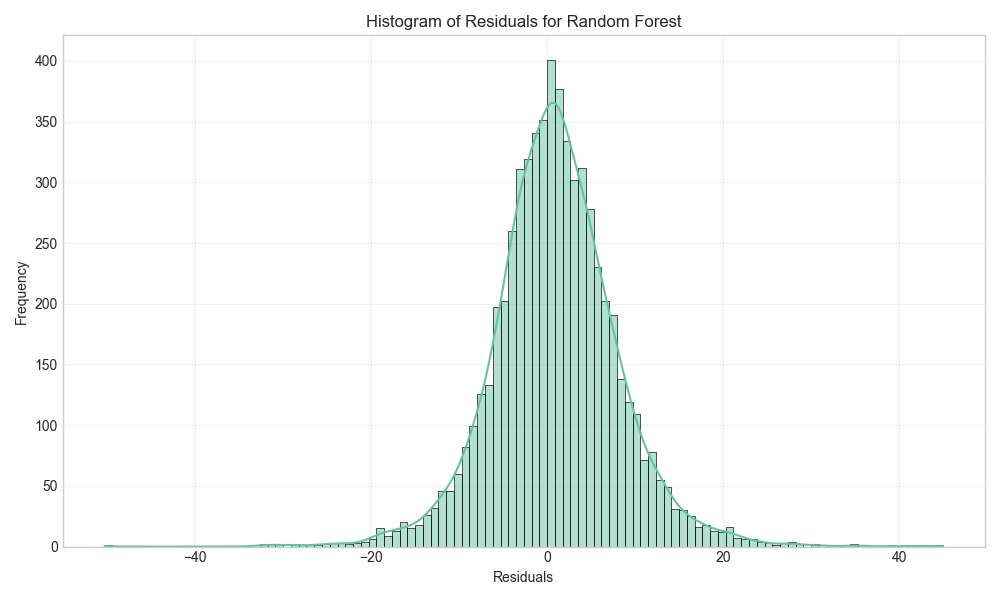
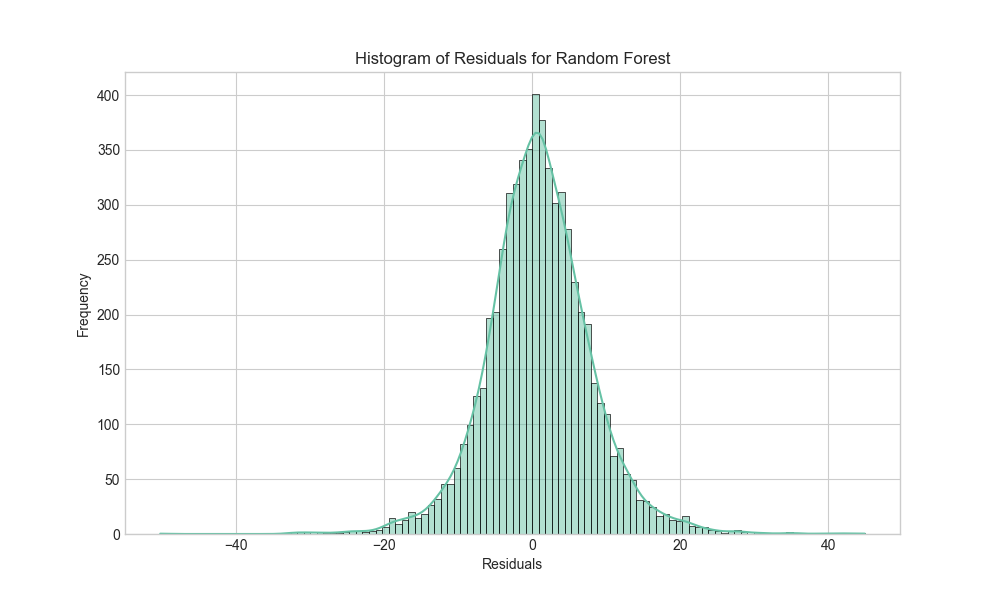
Consolidates data visualization code and improves plotting
Streamlines exploratory data visualization by:
- Consolidating multiple separate plot functions into a single comprehensive visualization grid
- Improving plot layouts and styling for better readability
- Adding cumulative enrollment tracking to provide better trend visibility
- Standardizing plot formatting and axis labels

Updates residual plotting functions to use more consistent styling and removes redundant filename handling

diff --git a/hiv_enugu/plotting/exploratory.py b/hiv_enugu/plotting/exploratory.py
@@ -1,117 +1,48 @@
 import matplotlib.pyplot as plt
 import matplotlib.dates as mdates
 import seaborn as sns
-import numpy as np
 import pandas as pd
 from .utils import plot_manager
-from pandas import DataFrame
 
 
 @plot_manager
-def plot_yearly_enrollment_trends(yearly_stats: DataFrame, **kwargs):
-    """Plots the yearly trends for mean enrollments and zero enrollment days."""
-    fig, ax1 = plt.subplots(figsize=(12, 6))
+def plot_exploratory_visualizations(df, **kwargs):
+    """Generate and save a grid of exploratory data visualizations."""
+    fig, axes = plt.subplots(2, 2, figsize=(20, 16))
+    fig.suptitle("Exploratory Data Analysis of HIV Cases in Enugu State", fontsize=20)
 
-    # Bar chart for mean enrollments
-    ax1.bar(
-        yearly_stats.index, yearly_stats["Mean"], color="skyblue", label="Mean Daily Enrollment"
-    )
-    ax1.set_xlabel("Year")
-    ax1.set_ylabel("Mean Daily Enrollment", color="skyblue")
-    ax1.tick_params(axis="y", labelcolor="skyblue")
+    # Plot 1: Time Series of New Enrollments
+    ax = axes[0, 0]
+    ax.plot(df['date'], df['enrollment'], label='Newly Enrolled', color='teal')
+    ax.set_title('Time Series of New HIV Enrollments')
+    ax.set_xlabel('Date')
+    ax.set_ylabel('Number of People')
+    ax.legend()
 
-    # Line chart for standard deviation
-    ax2 = ax1.twinx()
-    ax2.plot(
-        yearly_stats.index,
-        yearly_stats["Std"],
-        color="coral",
-        marker="o",
-        label="Std. Dev. of Daily Enrollment",
-    )
-    ax2.set_ylabel("Standard Deviation", color="coral")
-    ax2.tick_params(axis="y", labelcolor="coral")
+    # Plot 2: Yearly Distribution of New Enrollments
+    ax = axes[0, 1]
+    sns.boxplot(x='year', y='enrollment', data=df, ax=ax)
+    ax.set_title('Yearly Distribution of New Enrollments')
+    ax.set_xlabel('Year')
+    ax.set_ylabel('Newly Enrolled')
+    ax.tick_params(axis='x', rotation=45)
 
-    plt.title("Yearly Enrollment Trends")
-    fig.tight_layout()
-    return fig
+    # Plot 3: Monthly Trend of New Enrollments
+    ax = axes[1, 0]
+    monthly_trend = df.groupby('month')['enrollment'].mean()
+    monthly_trend.plot(kind='bar', ax=ax, color='skyblue')
+    ax.set_title('Average Monthly Trend of New Enrollments')
+    ax.set_xlabel('Month')
+    ax.set_ylabel('Average Number of People')
+    ax.tick_params(axis='x', rotation=0)
 
+    # Plot 4: Cumulative Enrollments Over Time
+    ax = axes[1, 1]
+    ax.plot(df['date'], df['cumulative'], label='Cumulative', color='purple')
+    ax.set_title('Cumulative HIV Cases Over Time')
+    ax.set_xlabel('Date')
+    ax.set_ylabel('Total Number of People')
+    ax.legend()
 
-@plot_manager
-def plot_yearly_distribution(df: DataFrame, **kwargs):
-    """Plots the distribution of enrollments by year."""
-    fig, ax = plt.subplots(figsize=(15, 8))
-    sns.boxplot(data=df, x="Year", y="enrollment", ax=ax)
-    plt.title("Enrollment Distribution by Year")
-    plt.xticks(rotation=45)
-    plt.tight_layout()
-    return fig
-
-
-@plot_manager
-def plot_monthly_enrollment_trends(monthly_stats: DataFrame, **kwargs):
-    """Plots the average daily enrollments by month."""
-    month_order = [
-        "January",
-        "February",
-        "March",
-        "April",
-        "May",
-        "June",
-        "July",
-        "August",
-        "September",
-        "October",
-        "November",
-        "December",
-    ]
-    monthly_stats.index = pd.CategoricalIndex(
-        monthly_stats.index, categories=month_order, ordered=True
-    )
-    monthly_stats = monthly_stats.sort_index()
-
-    fig, ax = plt.subplots(figsize=(12, 6))
-    ax.bar(monthly_stats.index, monthly_stats["mean"])
-    plt.title("Average Enrollments by Month")
-    plt.xlabel("Month")
-    plt.ylabel("Mean Daily Enrollments")
-    plt.xticks(rotation=45)
-    plt.tight_layout()
-    return fig
-
-
-@plot_manager
-def plot_enrollment_boxplot(df: DataFrame, **kwargs):
-    """Plots a box plot of daily enrollments."""
-    fig, ax = plt.subplots(figsize=(8, 6))
-    sns.boxplot(y=df["enrollment"], ax=ax)
-    plt.title("Box Plot of Daily Enrollments")
-    plt.ylabel("Number of Enrollments")
-    plt.tight_layout()
-    return fig
-
-
-@plot_manager
-def plot_enrollment_timeseries(df: DataFrame, **kwargs):
-    """Plots the time series of daily enrollments."""
-    fig, ax = plt.subplots(figsize=(15, 5))
-    ax.plot(df["date"], df["enrollment"])
-    plt.title("Time Series of Daily Enrollments")
-    plt.xlabel("Date")
-    plt.ylabel("Number of Enrollments")
-    plt.xticks(rotation=45)
-    plt.tight_layout()
-    return fig
-
-
-@plot_manager
-def plot_cleaned_timeseries(df: DataFrame, **kwargs):
-    """Plots the time series of cleaned daily enrollments."""
-    fig, ax = plt.subplots(figsize=(15, 5))
-    ax.plot(df["date"], df["enrollment_cleaned"])
-    plt.title("Time Series of Cleaned Daily Enrollments")
-    plt.xlabel("Date")
-    plt.ylabel("Number of Enrollments")
-    plt.xticks(rotation=45)
-    plt.tight_layout()
+    plt.tight_layout(rect=(0, 0, 1, 0.96))
     return fig

diff --git a/hiv_enugu/data_processing.py b/hiv_enugu/data_processing.py
@@ -1,14 +1,7 @@
 import pandas as pd
 import numpy as np
 import os
-from plotting.exploratory import (
-    plot_yearly_enrollment_trends,
-    plot_yearly_distribution,
-    plot_monthly_enrollment_trends,
-    plot_enrollment_boxplot,
-    plot_enrollment_timeseries,
-    plot_cleaned_timeseries,
-)
+from hiv_enugu.plotting.exploratory import plot_exploratory_visualizations
 from hiv_enugu.config import FIGURES_DIR, PROCESSED_DATA_DIR, RAW_DATA_DIR
 from loguru import logger
 from pathlib import Path
@@ -66,12 +59,6 @@ def analyze_and_visualize_trends(df: DataFrame):
     logger.info("\nMonthly Statistics:")
     logger.info(monthly_stats)
 
-    # Generate plots
-    plot_yearly_enrollment_trends(yearly_stats, filename="yearly_trends.png")
-    plot_yearly_distribution(df, filename="yearly_distributions.png")
-    plot_monthly_enrollment_trends(monthly_stats, filename="monthly_trends.png")
-    logger.info("\nTrend visualizations saved.")
-
 
 def analyze_outliers(df: DataFrame):
     """Identifies and analyzes outliers in the enrollment data."""
@@ -88,11 +75,6 @@ def analyze_outliers(df: DataFrame):
     if not outliers.empty:
         logger.info("Top 5 outliers:")
         logger.info(outliers.nlargest(5, "enrollment"))
-
-    # Generate plots
-    plot_enrollment_boxplot(df, filename="enrollments_boxplot.png")
-    plot_enrollment_timeseries(df, filename="enrollments_timeseries.png")
-    logger.info("\nOutlier visualizations saved.")
 
 
 def finalize_and_save(df: DataFrame, output_path: Path):
@@ -114,21 +96,23 @@ def finalize_and_save(df: DataFrame, output_path: Path):
     df.to_csv(output_path, index=False)
     logger.info(f"\nAnalysis complete. Cleaned data saved to {output_path}")
 
-    # Plot cleaned data
-    plot_cleaned_timeseries(df, filename="enrollments_cleaned_timeseries.png")
-    logger.info("Cleaned data visualization saved.")
-
 
 def main():
-    """Main function to run the full data analysis pipeline."""
-    # Ensure figures directory exists
-    os.makedirs(FIGURES_DIR, exist_ok=True)
-
-    df_complete = load_and_clean_data(RAW_DATA_DIR / "data.xlsx")
-    if df_complete is not None:
-        analyze_and_visualize_trends(df_complete)
-        analyze_outliers(df_complete)
-        finalize_and_save(df_complete, PROCESSED_DATA_DIR / "cleaned_enrollments.csv")
+    """Main function to run data processing and generate initial plots."""
+    logger.info("Starting data processing...")
+    raw_df = load_and_clean_data(RAW_DATA_DIR / "data.xlsx")
+    if raw_df is not None:
+        raw_df['enrollment'] = raw_df['enrollment'].fillna(0)
+        raw_df['cumulative'] = raw_df['enrollment'].cumsum()
+        raw_df['year'] = raw_df['date'].dt.year
+        raw_df['month'] = raw_df['date'].dt.month
+        analyze_and_visualize_trends(raw_df)
+        analyze_outliers(raw_df)
+        finalize_and_save(raw_df, PROCESSED_DATA_DIR / "cleaned_enrollments.csv")
+        plot_exploratory_visualizations(
+            raw_df, filename="exploratory_data_analysis.png"
+        )
+        logger.info("Exploratory visualizations saved to reports/figures/")
 
 
 if __name__ == "__main__":

diff --git a/hiv_enugu/plotting/diagnostics.py b/hiv_enugu/plotting/diagnostics.py
@@ -4,33 +4,25 @@ from .utils import plot_manager
 
 
 @plot_manager
-def plot_residuals(y_true, y_pred, model_name, filename_suffix="", **kwargs):
+def plot_residuals(y_true, y_pred, model_name, **kwargs):
     """Plot residuals vs. predicted values."""
     residuals = y_true - y_pred
-    fig = plt.figure(figsize=(10, 6))
-    plt.scatter(y_pred, residuals, alpha=0.5)
-    plt.axhline(y=0, color="r", linestyle="--")
-    plt.xlabel(f"Predicted Values ({model_name})")
-    plt.ylabel("Residuals")
-    plt.title(f"Residual Plot for {model_name}")
-    plt.grid(True)
-    plt.tight_layout()
-    if "filename" not in kwargs:
-        kwargs["filename"] = f"residuals_plot_{model_name}{filename_suffix}.png"
+    fig, ax = plt.subplots(figsize=(10, 6))
+    ax.scatter(y_pred, residuals, alpha=0.5)
+    ax.axhline(y=0, color='r', linestyle='--')
+    ax.set_xlabel(f'Predicted Values ({model_name})')
+    ax.set_ylabel('Residuals')
+    ax.set_title(f'Residual Plot for {model_name}')
     return fig
 
 
 @plot_manager
-def plot_residuals_histogram(y_true, y_pred, model_name, filename_suffix="", **kwargs):
+def plot_residuals_histogram(y_true, y_pred, model_name, **kwargs):
     """Plot histogram of residuals."""
     residuals = y_true - y_pred
-    fig = plt.figure(figsize=(10, 6))
-    sns.histplot(residuals, kde=True)
-    plt.xlabel("Residuals")
-    plt.ylabel("Frequency")
-    plt.title(f"Histogram of Residuals for {model_name}")
-    plt.grid(True, alpha=0.3)
-    plt.tight_layout()
-    if "filename" not in kwargs:
-        kwargs["filename"] = f"residuals_histogram_{model_name}{filename_suffix}.png"
+    fig, ax = plt.subplots(figsize=(10, 6))
+    sns.histplot(residuals, kde=True, ax=ax)
+    ax.set_xlabel('Residuals')
+    ax.set_ylabel('Frequency')
+    ax.set_title(f'Histogram of Residuals for {model_name}')
     return fig

diff --git a/hiv_enugu/plotting/evaluation.py b/hiv_enugu/plotting/evaluation.py
@@ -159,7 +159,7 @@ def visualize_metrics_comparison(model_metrics, ensemble_metrics, **kwargs):
     metrics_df["RMSE_norm"] = (metrics_df["RMSE"] - metrics_df["RMSE"].min()) / (
         metrics_df["RMSE"].max() - metrics_df["RMSE"].min() + 1e-10
     )
-    metrics_df["R²_norm"] = (metrics_df["R²"] - metrics_df["R²"].min()) / (
+    metrics_df["R²_norm"] = 1 - (metrics_df["R²"] - metrics_df["R²"].min()) / (
         metrics_df["R²"].max() - metrics_df["R²"].min() + 1e-10
     )
     metrics_df["MAE_norm"] = (metrics_df["MAE"] - metrics_df["MAE"].min()) / (
